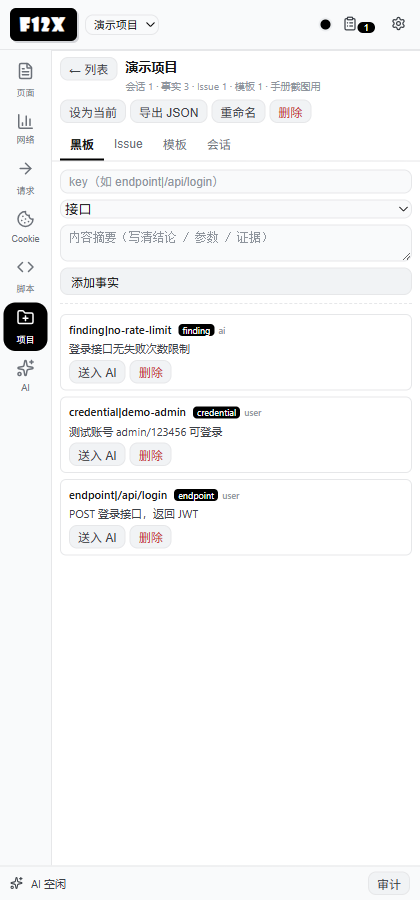
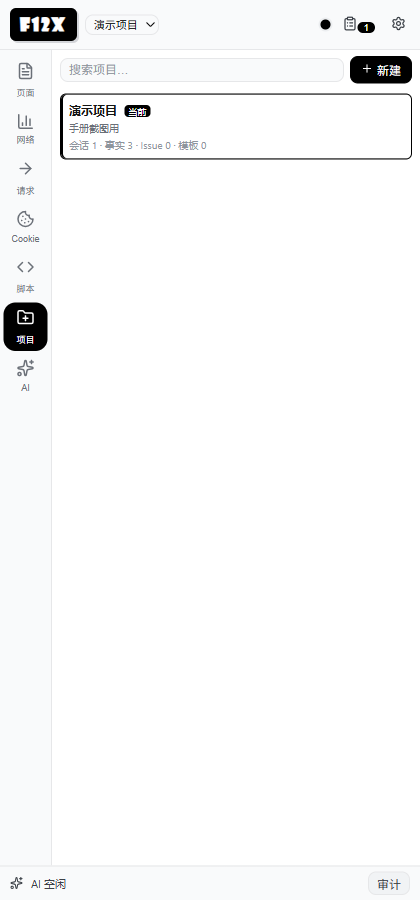
feat: 项目页默认列表 + 项目名唯一
- memory：createProject / renameProject 拒绝重名（trim + 大小写不敏感）与空名，返回 CONFLICT / INVALID；显式创建默认项目也检查冲突
- router：project:create / project:rename 透传错误码与可读文案
- panel：loadProjects 只有显式 focusId 才打开详情，进入「项目」页默认停在列表
- 文档：手册注明默认列表与重名限制；README 项目行补充
验证：dev/run.mjs 67/67（新增重名用例）；真实 UI：项目页默认列表、重名创建返回 CONFLICT、删除后空列表、全链路 0 pageerror；截图 20-project 更新为列表态。

diff --git a/src/memory.js b/src/memory.js
@@ -104,10 +104,21 @@ async function saveProjectInner(project) {
   await chrome.storage.local.set({ [PROJECTS_INDEX_KEY]: index });
 }
 
+// 项目名唯一（trim + 大小写不敏感；AI 内部黑板不算用户项目）
+function projectNameExists(index, name, excludeId) {
+  const n = String(name || "").trim().toLowerCase();
+  if (!n) return false;
+  return index.some((m) => m.id !== excludeId && m.id !== AI_PROJECT_ID && String(m.name || "").trim().toLowerCase() === n);
+}
+
 export async function createProject(name, desc) {
+  const nm = String(name || "未命名项目").trim().substring(0, 50);
+  if (!nm) return { error: "项目名称不能为空", code: "INVALID" };
+  const idx = await readProjectIndex();
+  if (projectNameExists(idx, nm)) return { error: "项目名称已存在：" + nm, code: "CONFLICT" };
   const id = "p_" + Date.now().toString(36) + "_" + Math.random().toString(36).slice(2, 8);
   const project = {
-    id, name: String(name || "未命名项目").substring(0, 50),
+    id, name: nm,
     desc: String(desc || "").substring(0, 200),
     facts: [], issues: [], templates: [], createdAt: Date.now(), updatedAt: Date.now(),
   };
@@ -137,7 +148,11 @@ async function deleteProjectInner(projectId) {
 export async function renameProject(projectId, name) {
   const project = await getProject(projectId);
   if (!project) return null;
-  project.name = String(name || "").substring(0, 50) || project.name;
+  const nm = String(name || "").trim().substring(0, 50);
+  if (!nm) return { error: "项目名称不能为空", code: "INVALID" };
+  const idx = await readProjectIndex();
+  if (projectNameExists(idx, nm, projectId)) return { error: "项目名称已存在：" + nm, code: "CONFLICT" };
+  project.name = nm;
   await saveProject(project);
   return { id: project.id, name: project.name };
 }
@@ -873,6 +888,7 @@ export async function ensureActiveProject({ create = false } = {}) {
   }
   if (!create) return null;
   const p = await createProject("默认项目", "显式创建：Issue / 手动黑板等持久数据的默认归属");
+  if (p && p.error) return null;
   await setActiveProjectId(p.id);
   return p;
 }

diff --git a/src/router.js b/src/router.js
@@ -545,7 +545,11 @@ export function handleMessage(message, sender, sendResponse) {
   }
   if (type === "project:create") {
     (async () => {
-      try { sendResponse({ ok: true, project: await createProject(message.name, message.desc) }); }
+      try {
+        const p = await createProject(message.name, message.desc);
+        if (p && p.error) return sendResponse({ ok: false, error: p.error, code: p.code });
+        sendResponse({ ok: true, project: p });
+      }
       catch (e) { sendResponse({ ok: false, error: e.message }); }
     })();
     return true;
@@ -554,6 +558,7 @@ export function handleMessage(message, sender, sendResponse) {
     (async () => {
       try {
         const p = await renameProject(message.projectId, message.name);
+        if (p && p.error) return sendResponse({ ok: false, error: p.error, code: p.code });
         sendResponse(p ? { ok: true, project: p } : { ok: false, error: "项目不存在" });
       } catch (e) { sendResponse({ ok: false, error: e.message }); }
     })();

diff --git a/sidepanel/panel.js b/sidepanel/panel.js
@@ -1398,9 +1398,9 @@ async function loadProjects(focusId) {
   if (r.ok) { app.projects = r.projects || []; app.currentProject = r.project || null; }
   renderProjectSelector();
   renderProjectList();
-  const id = focusId || (app.currentProject && app.currentProject.id);
-  if (id) await openProjectDetail(id);
-  else showProjectBrowser();
+  // 默认停在项目列表；只有显式传入 focusId 才打开详情
+  if (focusId) await openProjectDetail(focusId);
+  else { showProjectBrowser(); renderProjectList(); }
 }
 function renderProjectSelector() {
   const sel = $("project-selector");
